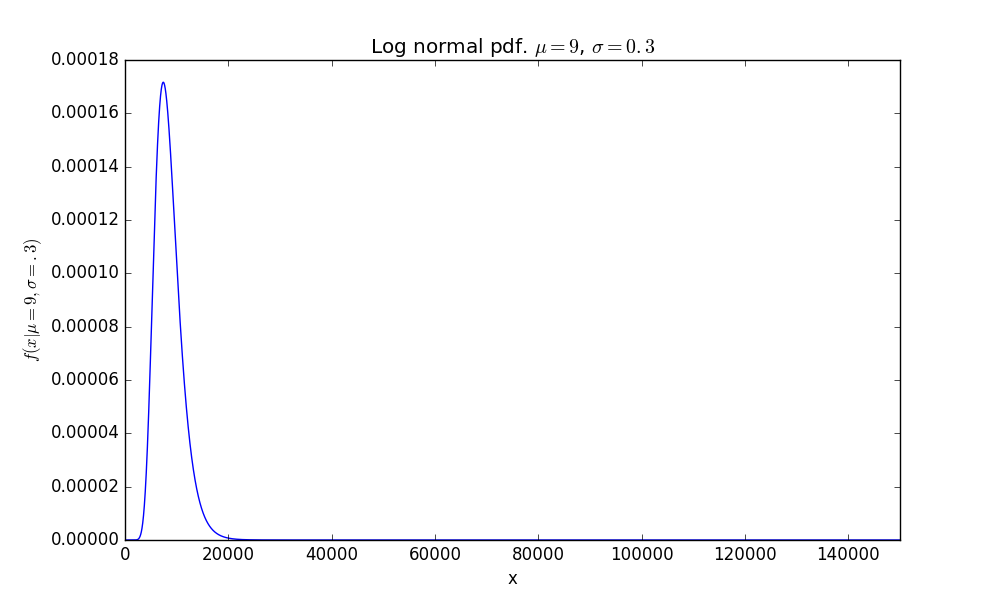
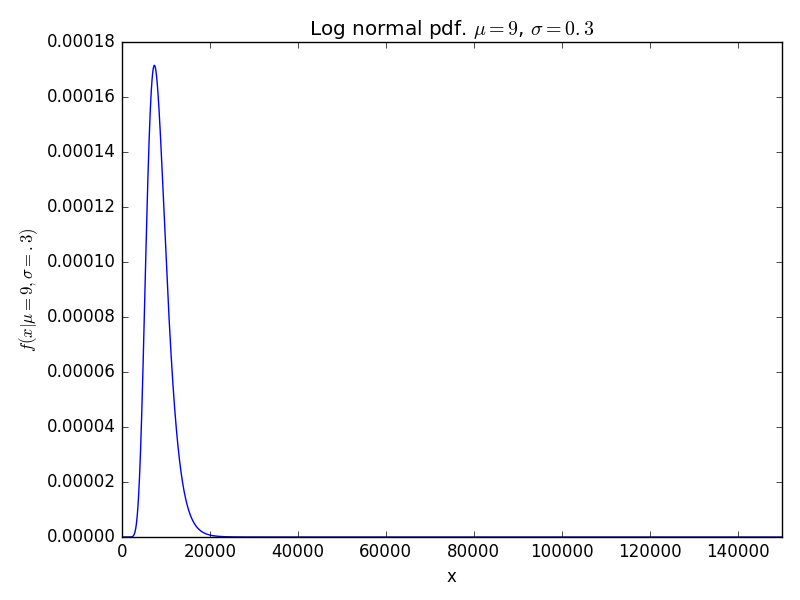
More work done on PS2

Changed region(s): [[0.0, 0.03, 1.0, 0.93]]

diff --git a/students/McClellan_Julian/PS2/script.py b/students/McClellan_Julian/PS2/script.py
@@ -8,6 +8,7 @@ import os
 import scipy.stats as sts
 import scipy.optimize as opt
 
+COVERAGE = 25
 
 # Utility fuctions
 def make_output_dir():
@@ -22,6 +23,7 @@ def make_output_dir():
 
     return(output_dir)
 
+
 def man_lognorm_pdf(x, mu, sigma):
     '''
     '''
@@ -30,7 +32,7 @@ def man_lognorm_pdf(x, mu, sigma):
 
 
 # Exercise 1a
-def plot_income_hist(incomes):
+def plot_income_hist(incomes, part_c = False):
     '''
     This function takes incomes array and plots an appropriate percentage 
     histogram for Exercise 1a.
@@ -44,19 +46,25 @@ def plot_income_hist(incomes):
     plt.hist(incomes, num_bins, weights = hist_wgts)
     plt.ylabel(r'Percentage of incomes (%)')
     plt.xlabel(r'Annual Incomes (\$s)')
-    plt.title('Annual Incomes of MACSS Students')
-
+    
     # plt.show()
-    # Save figure
-    output_path = os.path.join(make_output_dir(), 'Fig_1a')
-    plt.savefig(output_path)
-    plt.close()
+    
+    # If need to add the PDF from 1c, do not save, return some x_vals and ax
+    if part_c: 
+        max_income = incomes.max()
+        return(np.linspace(0.001, max_income, COVERAGE * max_income), fig, ax)
+    else: # Else, if this is being used for just 1a, then save the figure.
+        plt.title('Annual Incomes of MACSS Students')
+        output_path = os.path.join(make_output_dir(), 'Fig_1a')
+        plt.savefig(output_path)
+        plt.close()
 
     return(None)
 
 
 # Exercise 1b | Plotting lognormal pdf
-def plot_lognorm_pdf(bounds, coverage, mu, sigma):
+def plot_lognorm_pdf(bounds, coverage, mu, sigma, part_c = False, 
+                     fig_name = 'Fig_1b'):
     '''
     '''
     assert (0 < coverage < 100), 'Coverage must be between 0% and 100%'
@@ -71,18 +79,22 @@ def plot_lognorm_pdf(bounds, coverage, mu, sigma):
 
     # Plotting
     fig, ax = plt.subplots()
-    fig.set_size_inches(10, 6)
     plt.xlim(0, 150000)
-    plt.plot(x_vals, lognorm_pdf)
+    plt.plot(x_vals, lognorm_pdf, label = '$f(x|\mu={}, \sigma={}$'
+            .format(round(mu, 3), round(sigma, 3)))
     plt.xlabel('x')
-    plt.ylabel('$f(x|\mu=9,\sigma=.3)$')
-    plt.title('Log normal pdf. $\mu={}$, $\sigma={}$'.format(mu, sigma))
-    # plt.show()
 
-    # Save figure
-    output_path = os.path.join(make_output_dir(), 'Fig_1b')
-    plt.savefig(output_path)
-    plt.close()
+    if part_c: # If need to add the PDF from 1c, do not save, return the x_vals
+        return(x_vals)
+    else:
+        plt.ylabel('$f(x|\mu=9,\sigma=.3)$')
+        plt.title('Log normal pdf. $\mu={}$, $\sigma={}$'
+                  .format(round(mu, 3), round(sigma, 3)))
+        plt.tight_layout()
+        output_path = os.path.join(make_output_dir(), fig_name)
+        plt.savefig(output_path)
+        plt.close()
+    return(None)
 
 
 # Exercise 1b | Calculating log likelihood value
@@ -135,11 +147,64 @@ def estimate_params(mu_init, sig_init, values):
 
     results = opt.minimize(crit, params_init, method='SLSQP', args=(mle_args), 
                            bounds = bnds)
-    mu_MLE, sig_MLE = results.x
-    print('mu_MLE=', mu_MLE, ' sig_MLE=', sig_MLE)
+    return(results)
 
 
+# Exercise 1c | Plot the PDF against the pdf from part (b) and the histogram 
+# from part (a). Plot the estimated pdf for 0 <= x <= 150,000. Report the ML 
+# estimates for mu and sigma, the value of the likelihood function, and the 
+# variance-covariance matrix.
+def plot_alot(mu_init, sig_init, values):
+    '''
+    This function takes an initial value of mu and sigma, as well as the array
+    of student incomes and estimates the parameters of the lognormal distribution
+    by maximum likelihood and makes several required plots.
+    '''
+    results = estimate_params(mu_init, sig_init, incomes)
+    mu_mle, sig_mle = results.x
+    mle_label = '$f(x|\mu={}, \sigma={})$'.format(round(mu_mle, 3), 
+                                                  round(sig_mle, 3))
 
+    # Plot the PDF against the PDF from part b
+    # Plot part b, retrieve x_vals
+    x_vals = plot_lognorm_pdf([0.001, 150000], coverage = COVERAGE, mu = 9, 
+                              sigma = .3, part_c = True) 
+
+    # Y-axis values (lognorm pdf) creation
+    mle_lognorm_dist = sts.lognorm(scale = np.exp(mu_mle), s = sig_mle)
+    mle_lognorm_pdf = mle_lognorm_dist.pdf(x_vals)
+    # Plot on top of figure from part b
+    plt.plot(x_vals, mle_lognorm_pdf, label = mle_label)
+    plt.ylabel('$f(x|\mu,\sigma)$')
+    plt.title('Log normal pdfs with parameters $\mu,\sigma$')
+    plt.legend()
+    plt.tight_layout()
+
+    # Save figure
+    output_path = os.path.join(make_output_dir(), 'Fig_1c_with_b')
+    plt.savefig(output_path)
+    plt.close()
+
+    # Plot the estimated pdf for ) <= x <= 150,000.
+    plot_lognorm_pdf([0.001, 150000], COVERAGE, mu_mle, sig_mle, part_c = False, 
+                     fig_name = 'Fig_1c')
+
+    # Plot the PDF against the histogram from part a (twin y-label)
+    # Get new x vals (max is incomes.max())
+    x_vals, fig, ax = plot_income_hist(incomes, part_c = True) 
+    trunc_mle_ln_pdf = mle_lognorm_dist.pdf(x_vals)
+    ax2 = ax.twinx()
+    ax2.plot(x_vals, trunc_mle_ln_pdf, label = mle_label, color = 'red')
+    ax2.set_ylabel(mle_label)
+    plt.title('Annual Incomes of MACSS Students Histogram with Lognormal PDF', 
+              y = 1.02) # Move title up slightly
+    plt.legend(loc = 2) # Legend in upper left
+    plt.tight_layout() # I want to see the labels
+
+    # Save figure
+    output_path = os.path.join(make_output_dir(), 'Fig_1c_with_a')
+    plt.savefig(output_path)
+    plt.close()
 
 
 if __name__ == '__main__':
@@ -148,8 +213,9 @@ if __name__ == '__main__':
     plot_income_hist(incomes)
 
     # Exercise 1b
-    plot_lognorm_pdf([0.001, 150000], coverage = 25, mu = 9, sigma = .3)
+    plot_lognorm_pdf([0.001, 150000], coverage = COVERAGE, mu = 9, sigma = .3)
     log_lik_val = calc_lognorm_likelihood(incomes, mu = 9, sigma = .3)
     print('The log likelihood value of the data given mu = 9 and sigma = .3 is {}'.format(log_lik_val))
 
     # Exercise 1c
+    plot_alot(9, .3, incomes)
